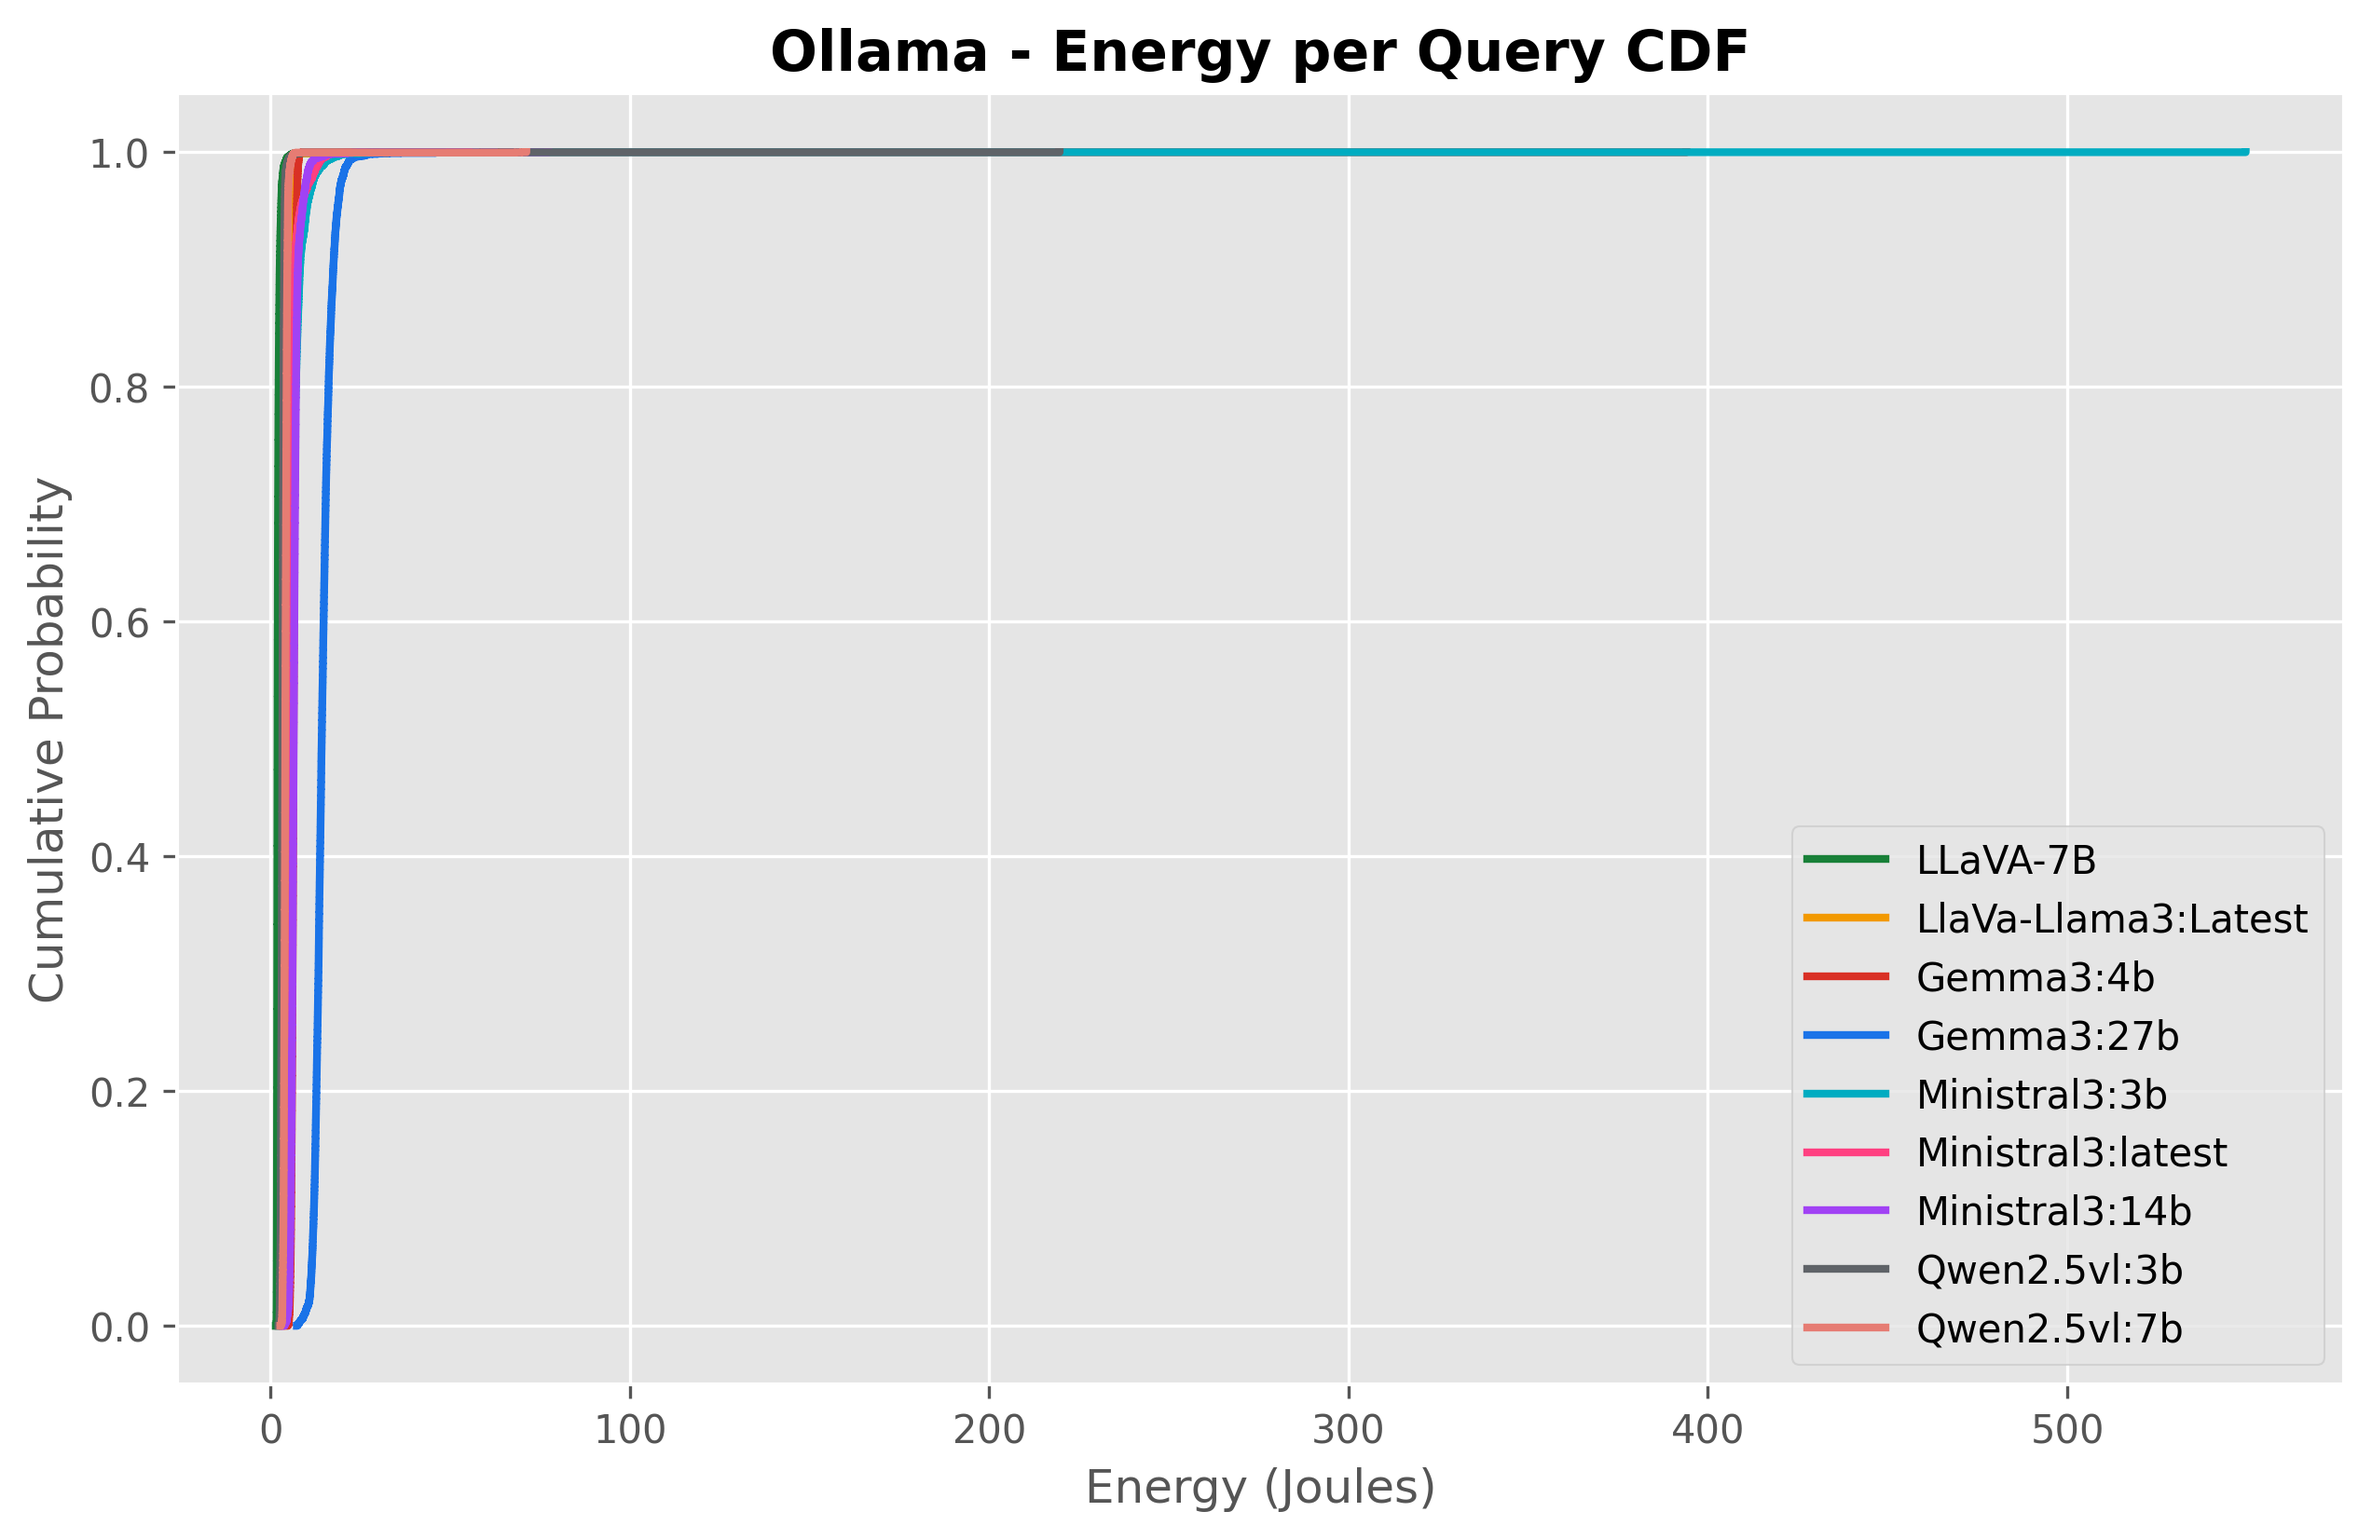
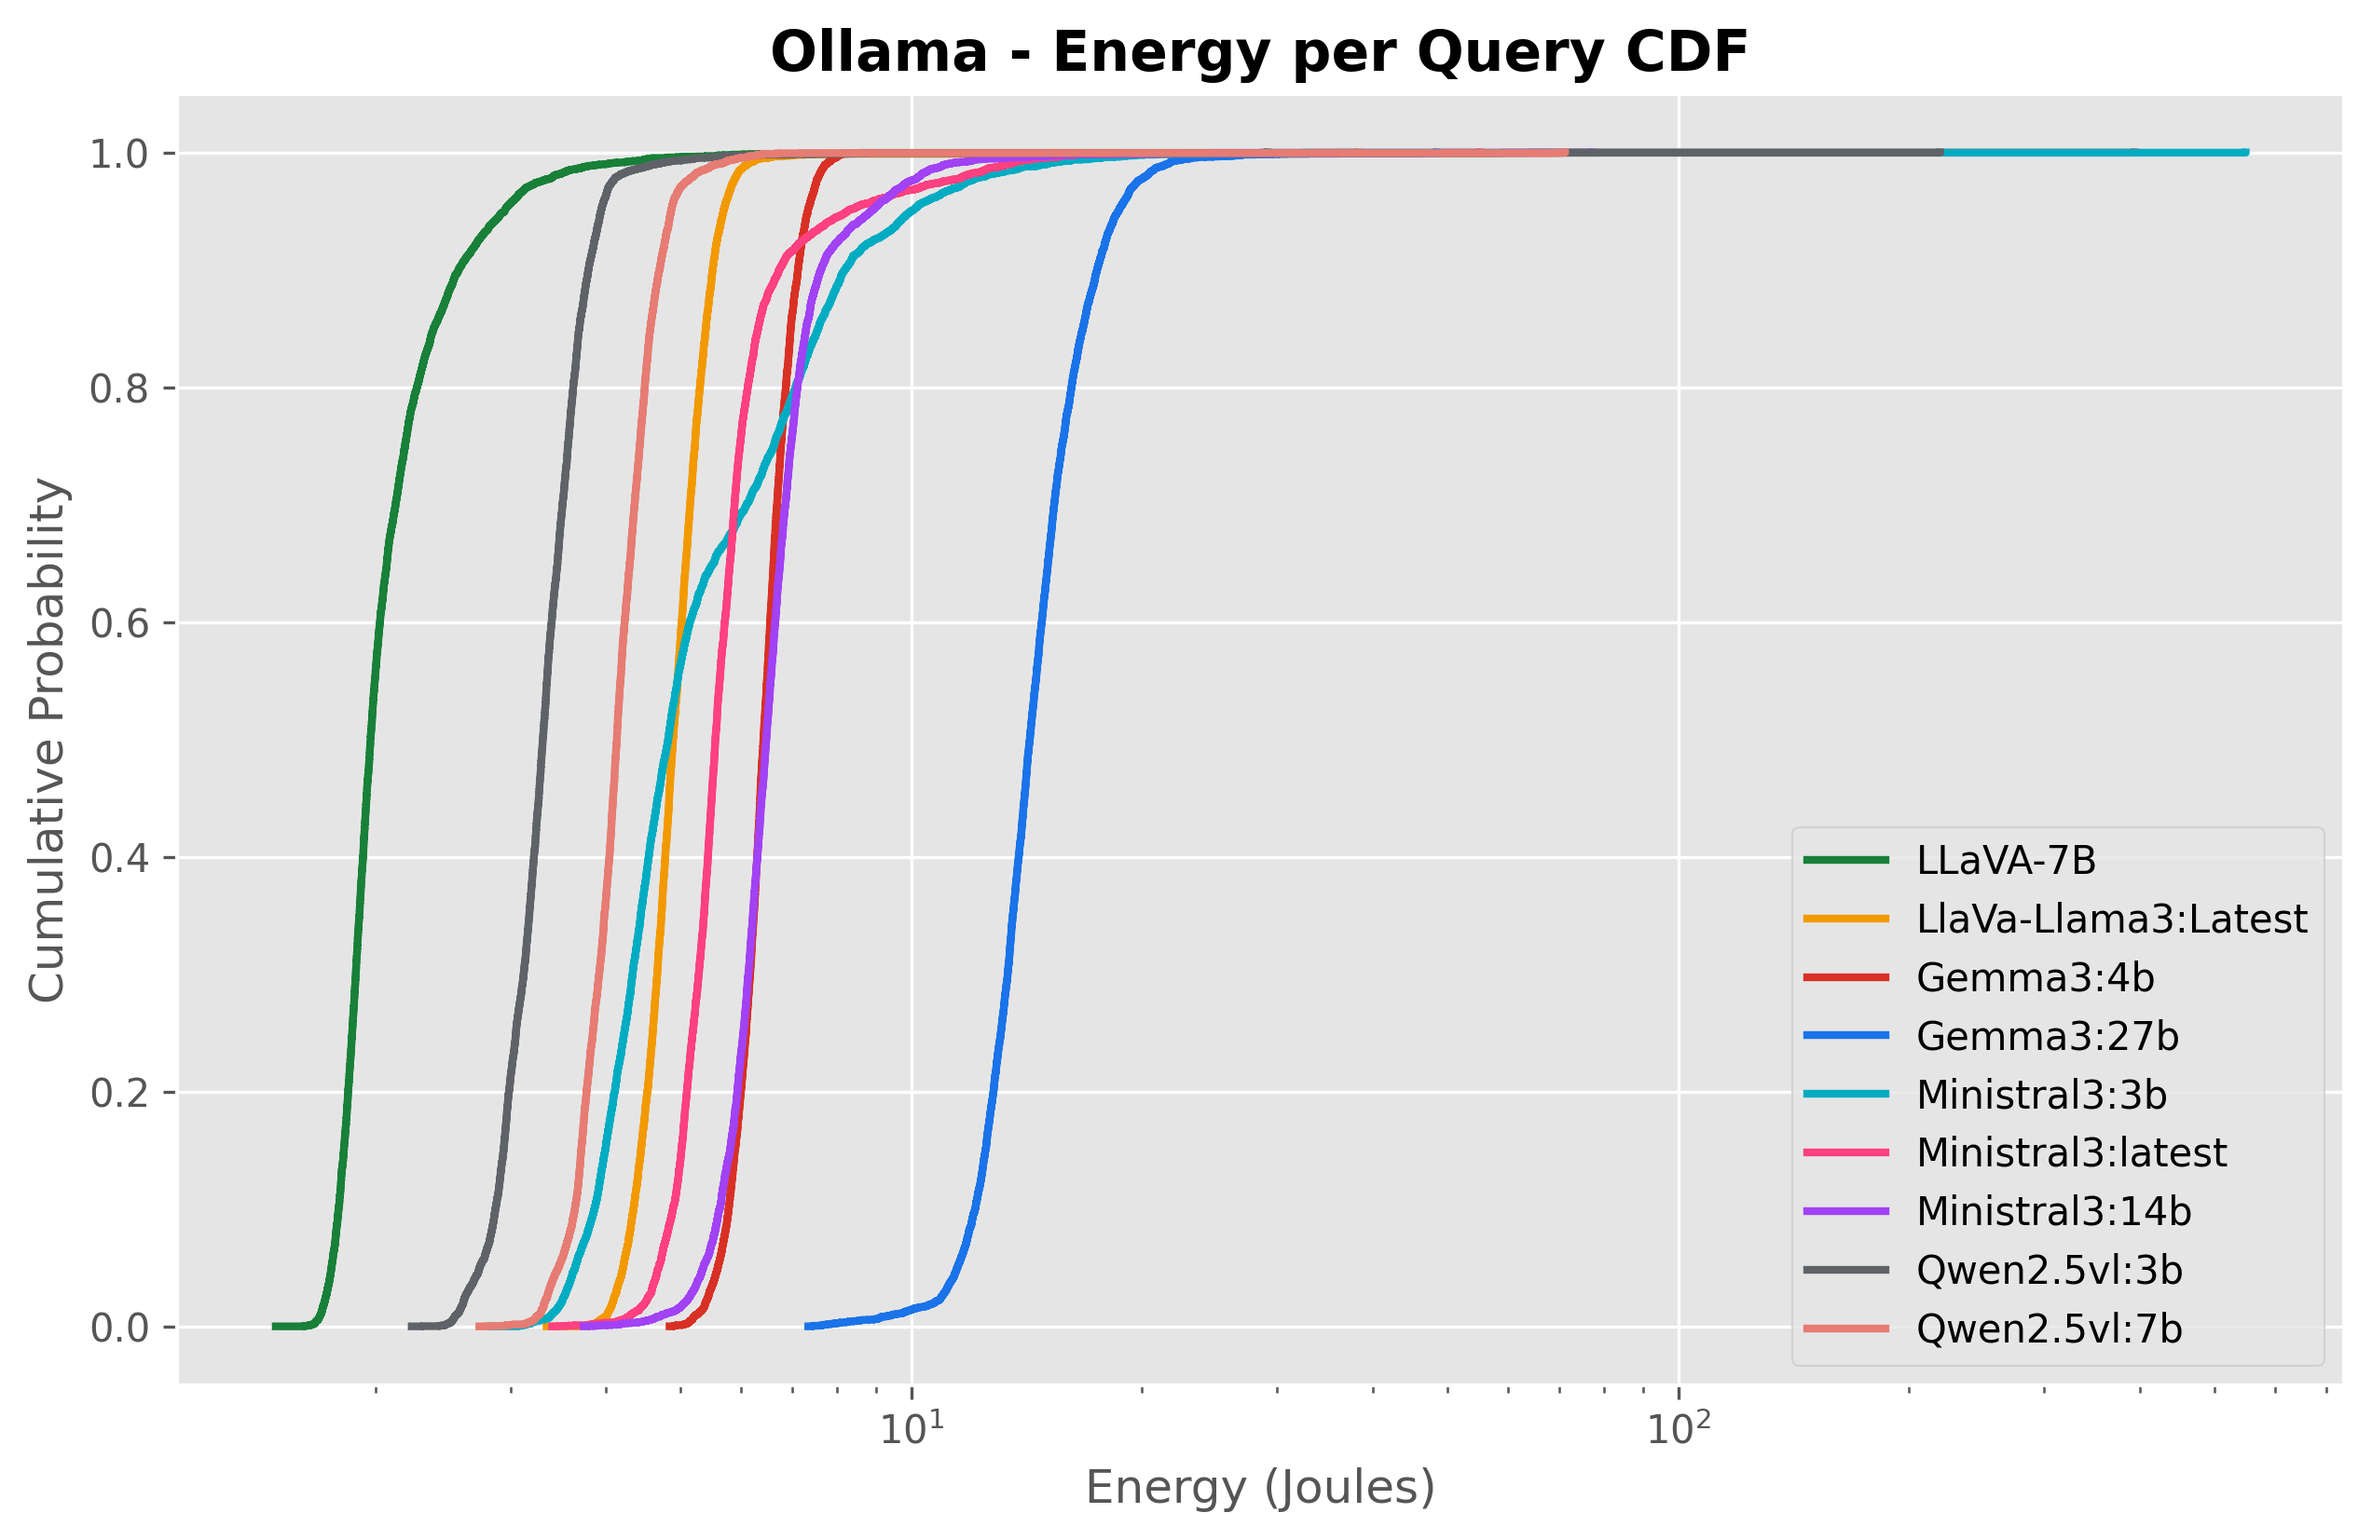
Added energy plots and fixed x axis for cdf

diff --git a/plots.py b/plots.py
@@ -137,6 +137,7 @@ def plot_latency(cfg, results_dir, plots_dir, color_map):
         for model, file in models.items():
             df = load_csv(results_dir, file)
             if df is not None:
+                # Skip first
                 smoothed = df["latency_sec"].iloc[1:].rolling(window=10).mean()
                 ax.plot(smoothed, label=model, linewidth=2, color=color_map.get(model))
         ax.set_ylabel("Latency (s)")
@@ -184,6 +185,22 @@ def plot_accuracy_vs_temp(cfg, results_dir, plots_dir, color_map):
         ax.set_title(f"{engine} - Accuracy Trend as Temperature Rises", weight="bold")
         ax.legend(loc='upper left', bbox_to_anchor=(1, 1), frameon=False)
         save(fig, plots_dir, f"acc_vs_temp_{engine}.png")
+
+def plot_energy(cfg, results_dir, plots_dir, color_map):
+    for engine, models in cfg["models"].items():
+        fig, ax = plt.subplots(figsize=(10, 6))
+        for model, file in models.items():
+            df = load_csv(results_dir, file)
+            if df is not None and "avg_gpu_w" in df.columns and "latency_sec" in df.columns:
+                # Skip first
+                energy = (df["avg_gpu_w"] * df["latency_sec"]).iloc[1:]
+                smoothed = energy.rolling(window=10, min_periods=1).mean()
+                ax.plot(smoothed, label=model, linewidth=2, color=color_map.get(model))
+        ax.set_ylabel("Energy (Joules)")
+        ax.set_xlabel("Prompt Index")
+        ax.set_title(f"{engine} - Energy per Prompt (Moving Avg)", weight="bold")
+        ax.legend(loc='upper left', bbox_to_anchor=(1, 1), frameon=False)
+        save(fig, plots_dir, f"energy_per_prompt_{engine}.png")
 
 # ---------------- Aggregated plots (Engine‑based) ---------------- #
 
@@ -319,10 +336,32 @@ def plot_energy_cdf_aggregated(cfg, results_dir, plots_dir, color_map):
             ax.step(sorted_e, cdf, where='post', label=model_name, linewidth=2, color=color_map.get(model_name))
         if not has_any: continue
         ax.set_title(f"{engine} - Energy per Query CDF", weight="bold")
+        ax.set_xscale('log')
         ax.set_xlabel("Energy (Joules)")
         ax.set_ylabel("Cumulative Probability")
         ax.legend(loc='lower right')
         save(fig, plots_dir, f"energy_cdf_{engine}.png")
+
+def plot_energy_aggregated(cfg, results_dir, plots_dir, color_map):
+    for engine, models in cfg["models"].items():
+        fig, ax = plt.subplots(figsize=(10, 6))
+        for model, filename in models.items():
+            dfs = load_all_runs(results_dir, filename)
+            if not dfs or "avg_gpu_w" not in dfs[0].columns or "latency_sec" not in dfs[0].columns: 
+                continue
+            processed = [(df["avg_gpu_w"] * df["latency_sec"]).iloc[1:].values for df in dfs]
+            min_len = min(len(p) for p in processed)
+            arr = np.array([p[:min_len] for p in processed])
+            mean_e = pd.Series(np.mean(arr, axis=0)).rolling(10, min_periods=1).mean()
+            std_e = pd.Series(np.std(arr, axis=0)).rolling(10, min_periods=1).mean()
+            iters = np.arange(1, min_len + 1)
+            color = color_map.get(model)
+            ax.plot(iters, mean_e, label=model, linewidth=2, color=color)
+            ax.fill_between(iters, mean_e - std_e, mean_e + std_e, alpha=0.2, color=color)
+        ax.set_ylabel("Energy (Joules)")
+        ax.set_title(f"{engine} - Energy per Prompt (Mean ± Std)", weight="bold")
+        ax.legend(loc='upper left', bbox_to_anchor=(1, 1), frameon=False)
+        save(fig, plots_dir, f"energy_per_prompt_{engine}.png")
 
 # ---------------- Family‑based aggregated plots ---------------- #
 
@@ -469,9 +508,30 @@ def plot_energy_cdf_family(family_data, plots_dir, color_map):
             ax.step(sorted_e, cdf, where='post', label=model_name, linewidth=2, color=color_map.get(model_name))
         if not has_any: continue
         ax.set_title(f"{family} - Energy per Query CDF", weight="bold")
+        ax.set_xscale('log')
         ax.legend(loc='lower right')
         save(fig, plots_dir, f"energy_cdf_{family}.png")
 
+def plot_energy_family(family_data, plots_dir, color_map):
+    for family, models in family_data.items():
+        fig, ax = plt.subplots(figsize=(10, 6))
+        for model_name, dfs in models.items():
+            if "avg_gpu_w" not in dfs[0].columns or "latency_sec" not in dfs[0].columns: 
+                continue
+            energy_series = [(df["avg_gpu_w"] * df["latency_sec"]).iloc[1:].values for df in dfs]
+            min_len = min(len(es) for es in energy_series)
+            arr = np.array([es[:min_len] for es in energy_series])
+            mean_e = pd.Series(np.mean(arr, axis=0)).rolling(10, min_periods=1).mean()
+            std_e = pd.Series(np.std(arr, axis=0)).rolling(10, min_periods=1).mean()
+            iters = np.arange(1, min_len + 1)
+            color = color_map.get(model_name)
+            ax.plot(iters, mean_e, label=model_name, linewidth=2, color=color)
+            ax.fill_between(iters, mean_e - std_e, mean_e + std_e, alpha=0.2, color=color)
+        ax.set_ylabel("Energy (Joules)")
+        ax.set_title(f"{family} - Energy per Prompt (Mean ± Std)", weight="bold")
+        ax.legend(loc='upper left', bbox_to_anchor=(1, 1), frameon=False)
+        save(fig, plots_dir, f"energy_per_prompt_{family}.png")
+        
 # ---------------- Main ---------------- #
 
 def main():
@@ -486,6 +546,7 @@ def main():
     p.add_argument("--power", action="store_true")
     p.add_argument("--temp", action="store_true")
     p.add_argument("--acc-vs-temp", action="store_true")
+    p.add_argument("--energy", action="store_true", help="Plot Energy per prompt time-series")
     p.add_argument("--energy-cdf", action="store_true")
     p.add_argument("--all", action="store_true")
     args = p.parse_args()
@@ -495,6 +556,7 @@ def main():
     base_results = cfg["results_dir"]
     base_plots = cfg["plots_dir"]
 
+    # Single Run Logic
     if not args.aggregate and not args.family:
         results_dir = os.path.join(base_results, args.run) if args.run else base_results
         plots_dir = os.path.join(base_plots, args.run) if args.run else base_plots
@@ -504,8 +566,10 @@ def main():
         if args.power or args.all: plot_power(cfg, results_dir, plots_dir, cmap)
         if args.temp or args.all: plot_temperature(cfg, results_dir, plots_dir, cmap)
         if args.acc_vs_temp or args.all: plot_accuracy_vs_temp(cfg, results_dir, plots_dir, cmap)
+        if args.energy or args.all: plot_energy(cfg, results_dir, plots_dir, cmap)
         return
 
+    # Aggregated Logic
     if args.aggregate:
         plots_dir = os.path.join(base_plots, "aggregated")
         if args.accuracy or args.all: plot_accuracy_aggregated(cfg, base_results, plots_dir)
@@ -514,8 +578,10 @@ def main():
         if args.power or args.all: plot_power_aggregated(cfg, base_results, plots_dir, cmap)
         if args.temp or args.all: plot_temperature_aggregated(cfg, base_results, plots_dir, cmap)
         if args.acc_vs_temp or args.all: plot_accuracy_vs_temp_aggregated(cfg, base_results, plots_dir, cmap)
+        if args.energy or args.all: plot_energy_aggregated(cfg, base_results, plots_dir, cmap)
         if args.energy_cdf or args.all: plot_energy_cdf_aggregated(cfg, base_results, plots_dir, cmap)
 
+    # Family Logic
     if args.family:
         plots_dir = os.path.join(base_plots, "family")
         family_data = load_all_data_by_family(base_results, cfg)
@@ -525,6 +591,7 @@ def main():
         if args.power or args.all: plot_power_family(family_data, plots_dir, cmap)
         if args.temp or args.all: plot_temperature_family(family_data, plots_dir, cmap)
         if args.acc_vs_temp or args.all: plot_accuracy_vs_temp_family(family_data, plots_dir, cmap)
+        if args.energy or args.all: plot_energy_family(family_data, plots_dir, cmap)
         if args.energy_cdf or args.all: plot_energy_cdf_family(family_data, plots_dir, cmap)
 
 if __name__ == "__main__":
